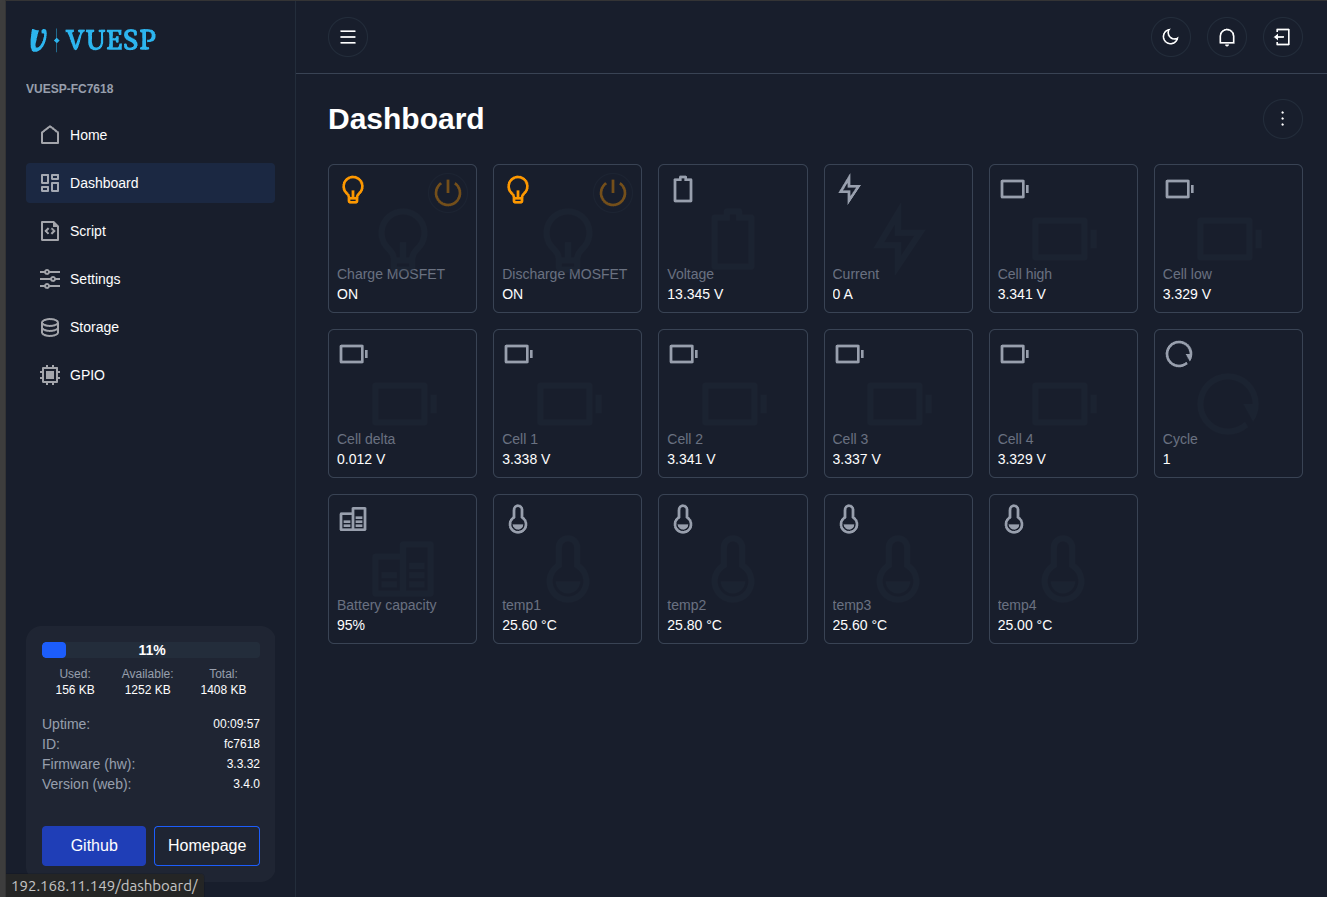
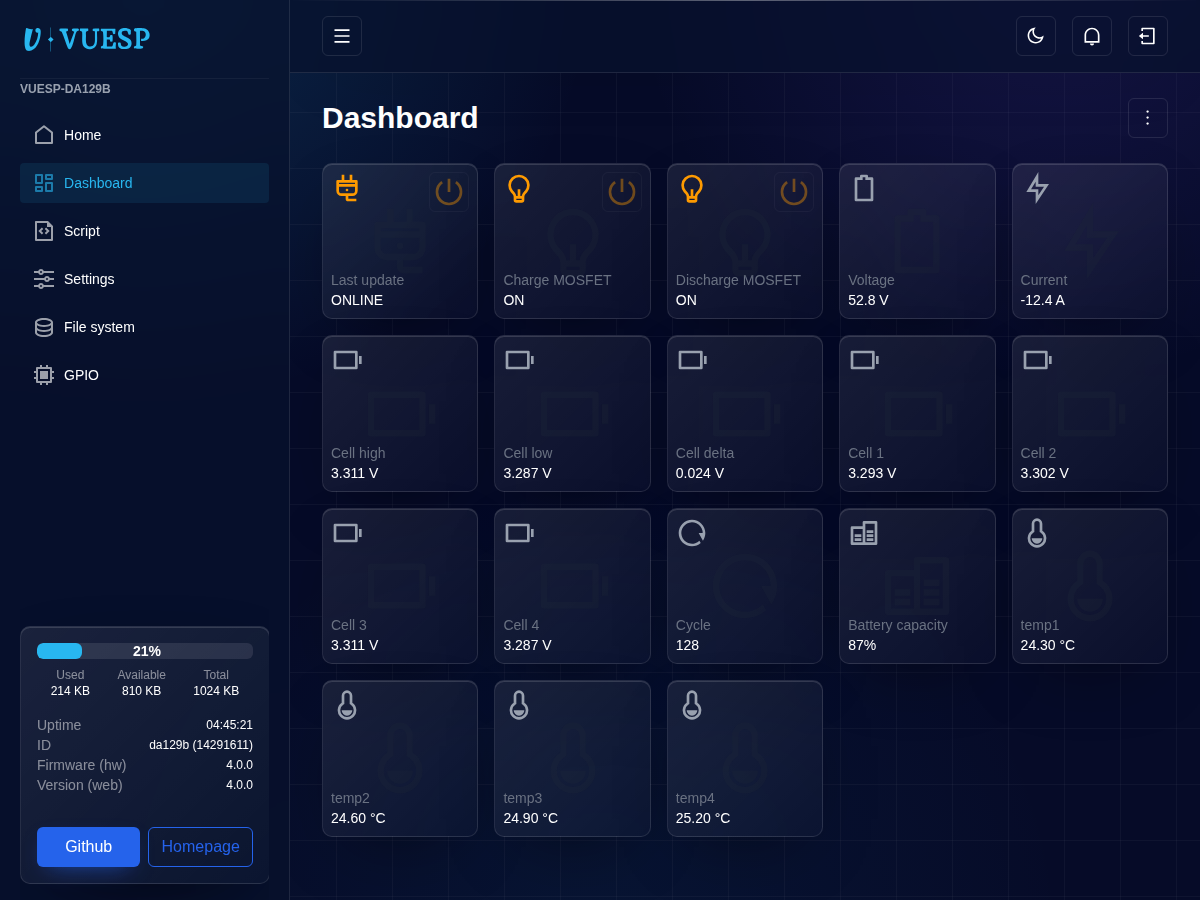
feat: update

diff --git a/README.md b/README.md
@@ -216,6 +216,12 @@ Binary WebSocket messages at `/esp` endpoint:
 
 ## Version History
 
+### 4.0.0 (2026-11-08)
+
+- V4.0 device UI with the shared glass theme and light/dark modes.
+- Updated web dependencies and regenerated screenshots.
+- Release workflow publishes `esp32-c3-devkitm-1` firmware and LittleFS images.
+
 ### 3.4.0 (2026-07-24)
 
 - Update Web
@@ -319,7 +325,7 @@ This project is licensed under the MIT License - see LICENSE file for details.
 
 The MIT License (MIT)
 
-Copyright (c) 2021-2025, bondrogeen <bondrogeen@users.noreply.github.com>
+Copyright (c) 2021-2025, bondrogeen
 
 Permission is hereby granted, free of charge, to any person obtaining a copy
 of this software and associated documentation files (the "Software"), to deal
